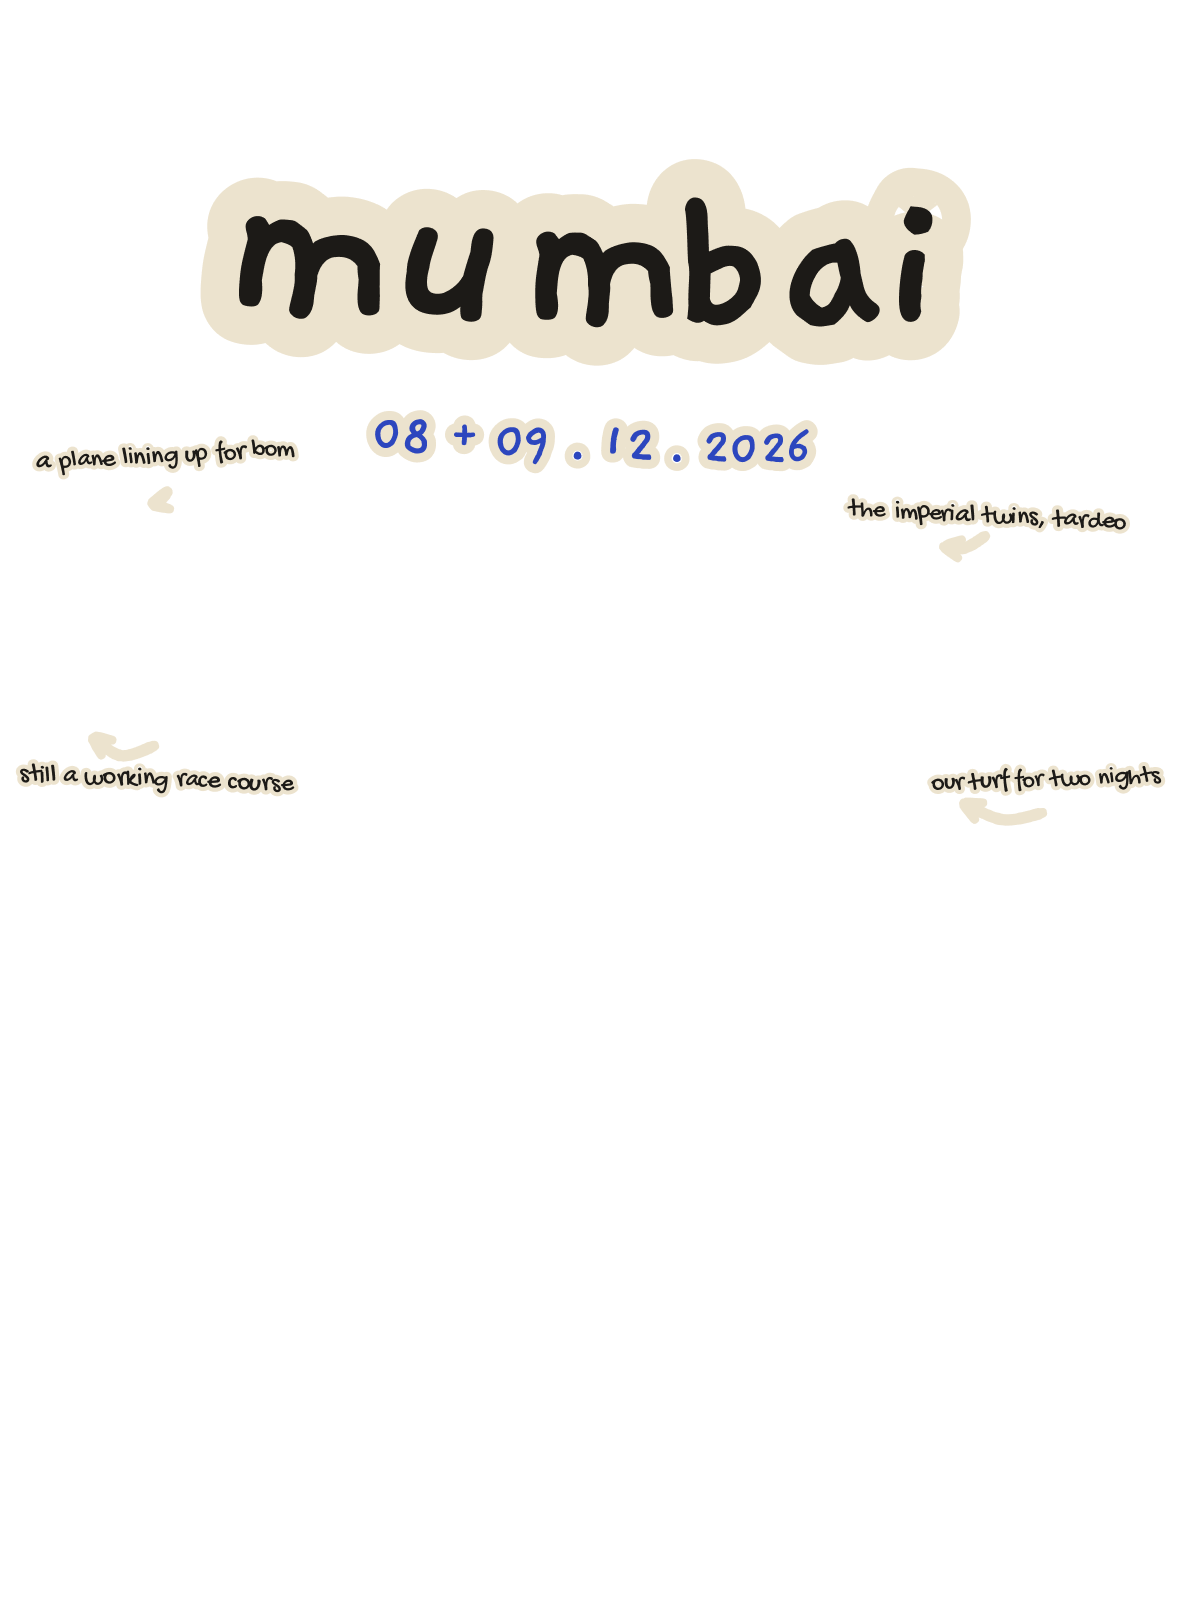
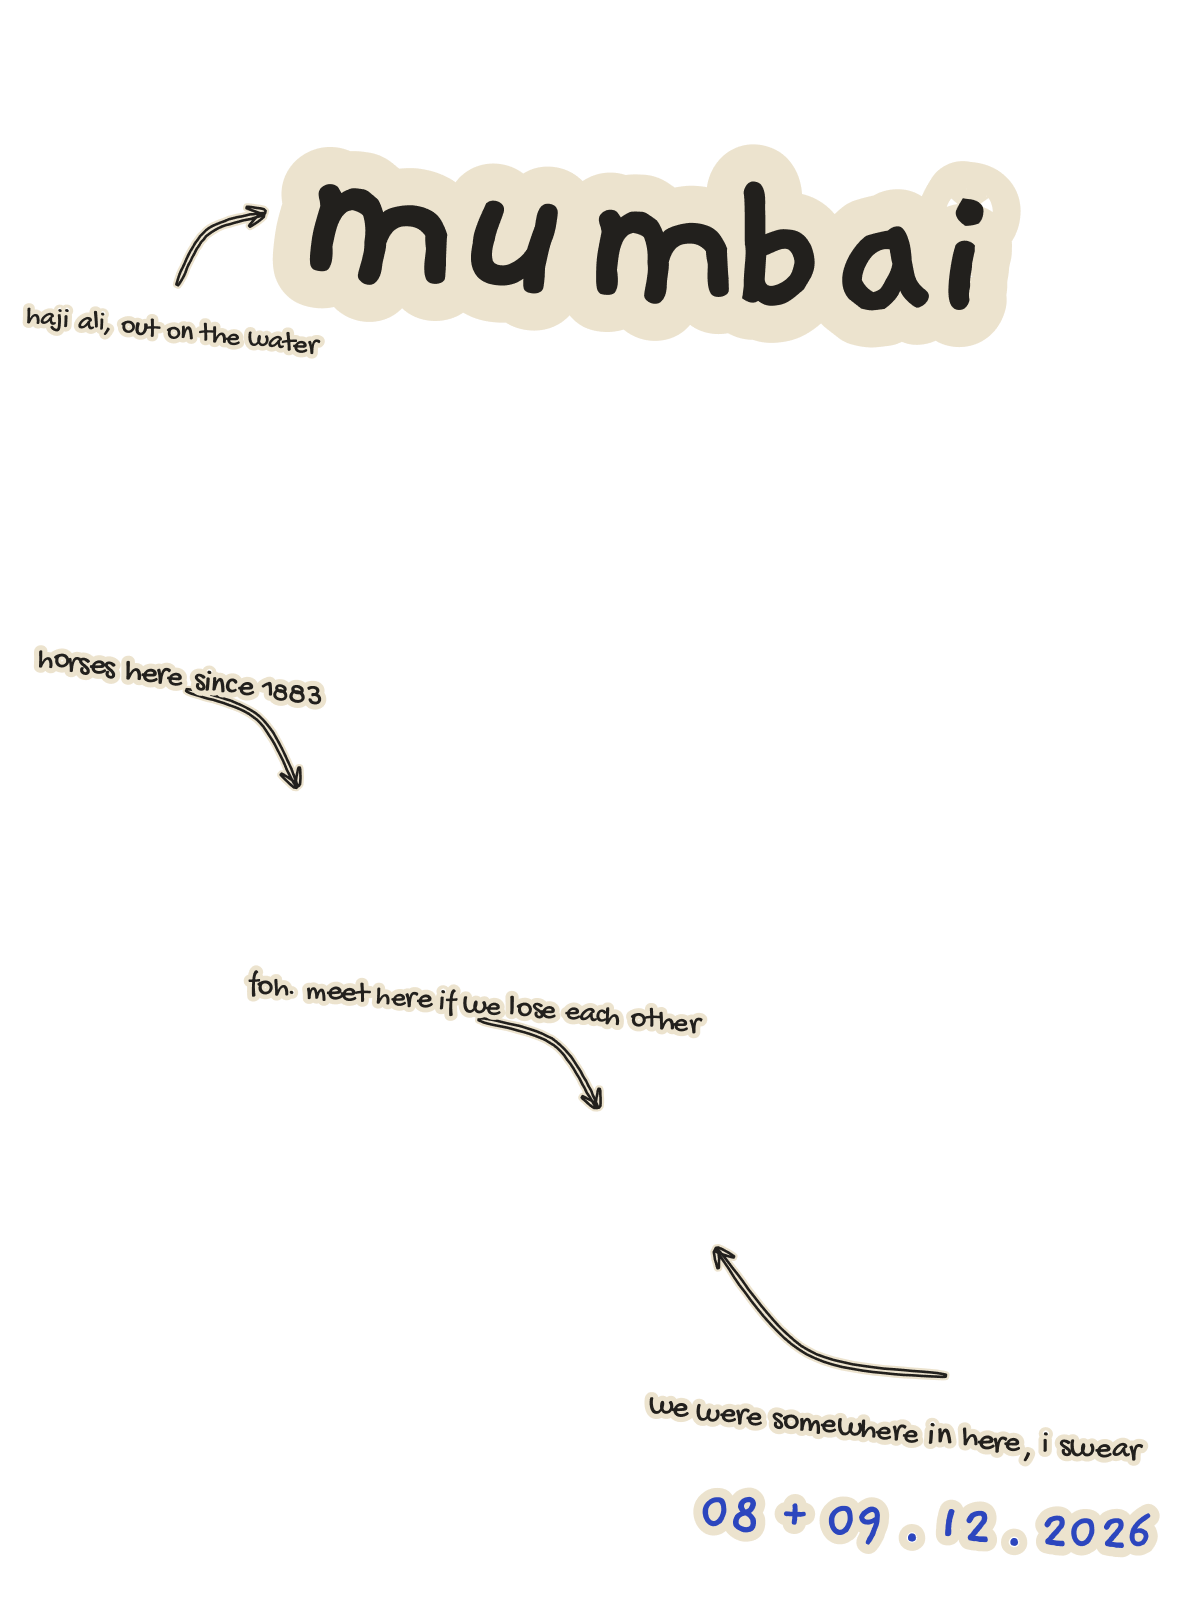
0.16.4: Mumbai map lettering from Figma, i swear

diff --git a/CHANGELOG.md b/CHANGELOG.md
@@ -2,6 +2,11 @@
 
 Versions follow [SemVer](https://semver.org): MAJOR for a new site or pipeline structure, MINOR for a new garment, colourway, size or studio feature, PATCH for fixes to renders, numbers or copy. Every release is a git tag `vX.Y.Z` with its renders attached to the GitHub release.
 
+## 0.16.4 — 2026-11-25
+### Shirts
+- 03 Mumbai map has its new lettering: the note reads we were somewhere in here, i swear, and every arrow has its dark line back.
+- New try-on textures and prints to match.
+
 ## 0.16.3 — 2026-11-25
 ### Shirts
 - 02 i am a party has no mirror ball after all; the title sits centred again.
